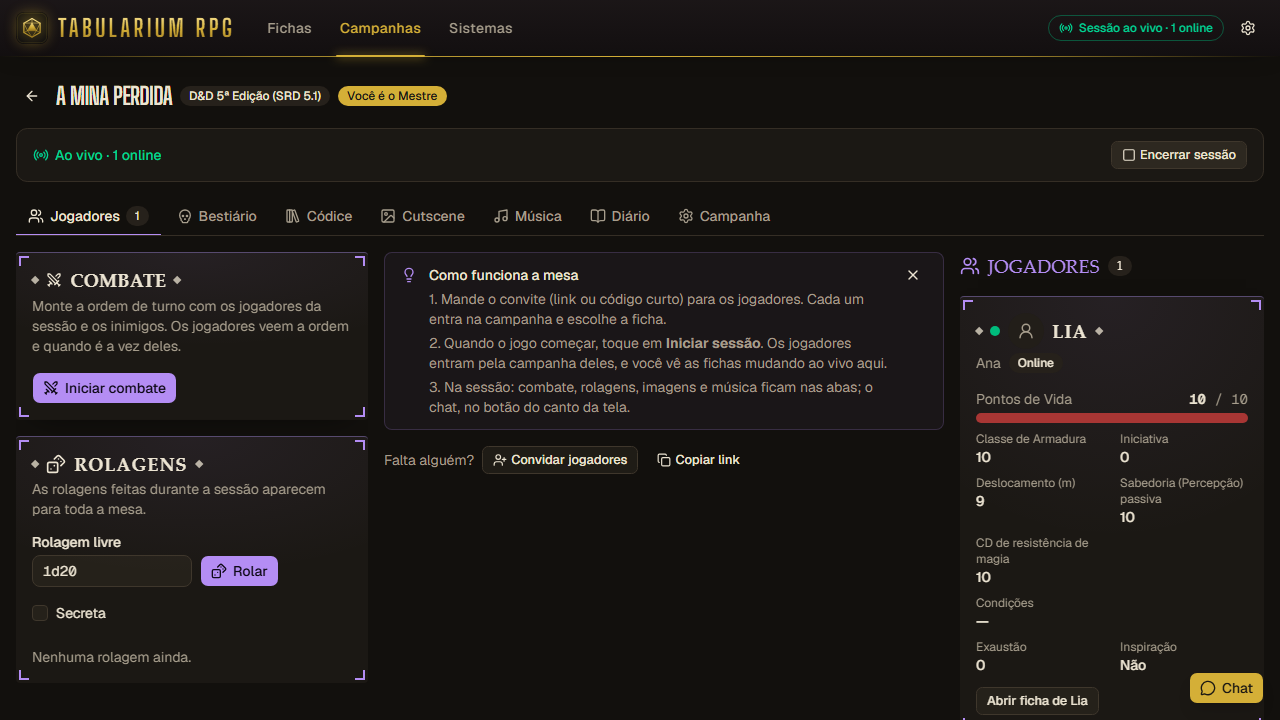
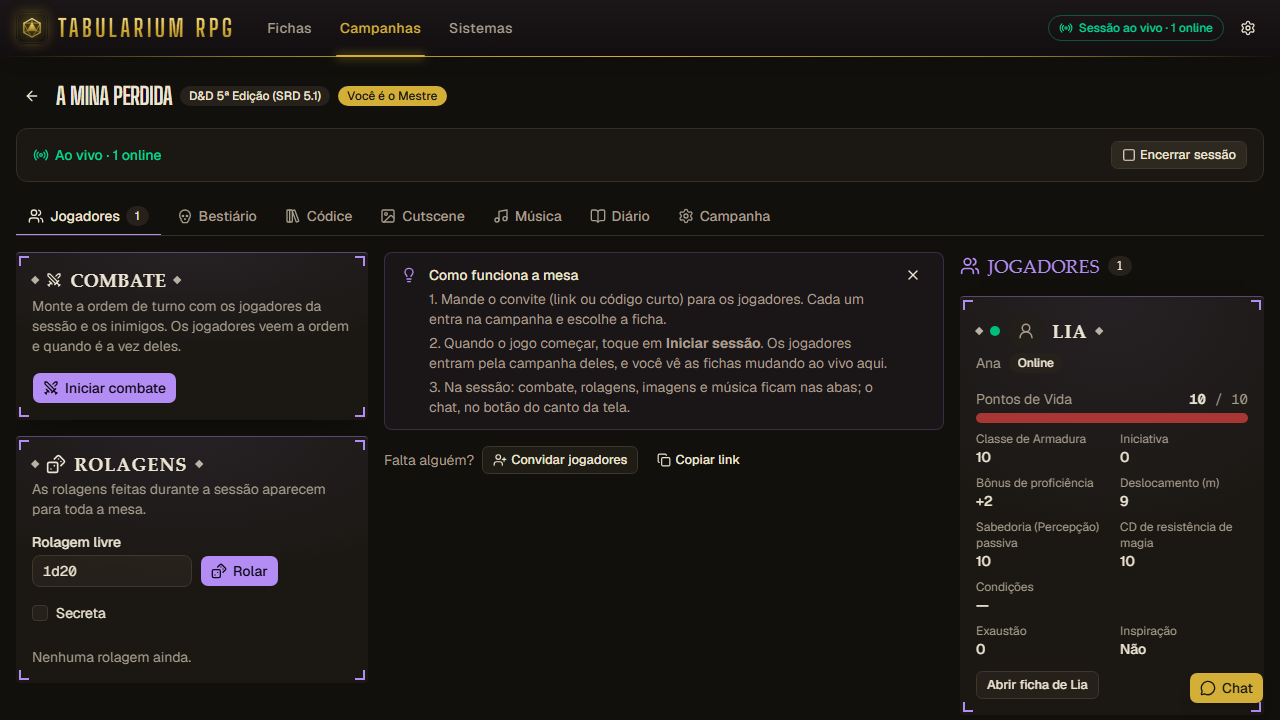
fix: lateral do D&D só com os atributos; bônus de proficiência no painel
- D&D 5e 1.13.0: só Atributos sempre à vista; testes de resistência voltam à aba
  Principal e o bônus de proficiência passa ao painel, junto de CA e iniciativa.
- A meia página sem par também se estica entre as seções fixas acima das abas.
- Marcadores do painel (Exaustão) ocupam a linha toda: as bolinhas numa fileira.

diff --git a/apps/web/src/components/sheet/SheetLayout.tsx b/apps/web/src/components/sheet/SheetLayout.tsx
@@ -444,24 +444,27 @@ export function SheetLayout({
     );
     pendingTab = undefined;
   }
-  // A meia página que perdeu o par (ele foi para o painel) ocupa a largura toda: numa
-  // sequência ímpar de meias páginas da mesma aba, a última se estica.
+  // A meia página que perdeu o par (ele foi para o painel, ou ficou nas abas) ocupa a largura
+  // toda: numa sequência ímpar de meias páginas da mesma aba, a última se estica. Vale para as
+  // abas e para as seções fixas desenhadas acima delas.
   if (sideNodes.length > 0) {
-    let run: number[] = [];
-    const closeRun = () => {
-      const last = run.at(-1);
-      if (run.length % 2 === 1 && last !== undefined) {
-        const { width: _width, ...rest } = full[last] as SectionNode;
-        full[last] = rest;
-      }
-      run = [];
-    };
-    full.forEach((node, index) => {
-      if (node.kind === 'section' && node.tab) closeRun();
-      if (node.kind === 'section' && node.width === 'metade') run.push(index);
-      else closeRun();
-    });
-    closeRun();
+    for (const nodes of [full, sideNodes] as LayoutNode[][]) {
+      let run: number[] = [];
+      const closeRun = () => {
+        const last = run.at(-1);
+        if (run.length % 2 === 1 && last !== undefined) {
+          const { width: _width, ...rest } = nodes[last] as SectionNode;
+          nodes[last] = rest;
+        }
+        run = [];
+      };
+      nodes.forEach((node, index) => {
+        if (node.kind === 'section' && node.tab) closeRun();
+        if (node.kind === 'section' && node.width === 'metade') run.push(index);
+        else closeRun();
+      });
+      closeRun();
+    }
   }
   // Campos que o template não posicionou no layout continuam acessíveis.
   const shown = new Set(layoutFieldIds(wholeLayout));

diff --git a/apps/web/src/components/sheet/SheetVitals.tsx b/apps/web/src/components/sheet/SheetVitals.tsx
@@ -339,10 +339,12 @@ function ResourceVital({
 function Tile({
   label,
   emblem,
+  wide = false,
   children,
 }: {
   label: string;
   emblem?: 'escudo' | undefined;
+  wide?: boolean;
   children: ReactNode;
 }) {
   if (emblem === 'escudo') {
@@ -358,7 +360,12 @@ function Tile({
     );
   }
   return (
-    <div className="flex min-w-16 shrink-0 flex-col items-center gap-0.5 rounded-md border px-2.5 py-1">
+    <div
+      className={cn(
+        'flex min-w-16 shrink-0 flex-col items-center gap-0.5 rounded-md border px-2.5 py-1',
+        wide && 'xl:col-span-2',
+      )}
+    >
       <span
         className="text-muted-foreground line-clamp-2 max-w-24 text-center text-[11px] leading-tight xl:max-w-none"
         title={label}
@@ -557,7 +564,14 @@ export function SheetVitals({
             não pode tomar a tela. */}
           <div className="-mx-1 flex max-w-full gap-2 overflow-x-auto px-1 pb-1 sm:flex-wrap sm:overflow-visible sm:pb-0 xl:mx-0 xl:grid xl:grid-cols-2 xl:px-0 xl:[&>*]:min-w-0">
             {tiles.map((field) => (
-              <Tile key={field.id} label={field.label} emblem={field.emblem}>
+              <Tile
+                key={field.id}
+                label={field.label}
+                emblem={field.emblem}
+                // Marcadores (Exaustão, testes contra a morte) ocupam a linha toda da coluna:
+                // as bolinhas cabem numa fileira só.
+                wide={'display' in field && field.display === 'marcadores'}
+              >
                 {tile(field)}
               </Tile>
             ))}

diff --git a/apps/web/src/App.sheet-layout.test.tsx b/apps/web/src/App.sheet-layout.test.tsx
@@ -165,7 +165,10 @@ describe('seções sempre à vista', () => {
     expect(tabPanel()).not.toContainElement(attributes());
     await user.click(screen.getByRole('tab', { name: 'Combate' }));
     expect(attributes()).toBeInTheDocument();
-    expect(screen.getByRole('heading', { name: 'Testes de resistência' })).toBeInTheDocument();
+    // Só os atributos: os testes de resistência ficam na aba Principal.
+    expect(
+      screen.queryByRole('heading', { name: 'Testes de resistência' }),
+    ).not.toBeInTheDocument();
     // A aba que começava nos atributos passa para a seção seguinte (Perícias).
     await user.click(screen.getByRole('tab', { name: 'Principal' }));
     expect(within(tabPanel()).getByRole('heading', { name: 'Perícias' })).toBeInTheDocument();

diff --git a/CHANGELOG.md b/CHANGELOG.md
@@ -5,8 +5,8 @@ As mudanças de cada versão, para quem usa o Tabularium RPG. Detalhes técnicos
 ## Próxima versão
 
 - **Visual novo: carvão e dourado.** O app troca o azul-tinta e o cobalto por superfícies em carvão quente (sem o tom azulado) e um único destaque em dourado envelhecido, no que é interativo e importante. O cabeçalho ganha o nome em ouro, um filete dourado e a aba atual marcada embaixo, e o ícone vira um d20 dourado.
-- **Estilo de cada ficha:** além da cor e da fonte, o sistema escolhe a moldura dos blocos: **medieval** (cantos marcados e o título entre losangos, para fantasia) ou **sombrio** (blocos quase pretos, uma luz baixa na cor do sistema e as bordas da tela escurecidas, para terror e investigação). O D&D 5e (1.12.0) fica medieval; no catálogo, Tormenta20, Dualidade e Pathfinder 2e ficam medievais, e Ordem Paranormal (agora em vermelho) e Chamado de Cthulhu, sombrios. No editor, em Informações → **Estilo da ficha**.
-- **Atributos sempre à vista:** o sistema marca as seções essenciais (atributos, testes de resistência) como **Sempre à vista**, no editor de seções. Em telas largas, elas ficam na coluna fixa da esquerda, junto de PV e defesa, e não somem ao trocar de aba; em telas menores, ficam acima das abas. A meia página que perde o par ocupa a largura toda.
+- **Estilo de cada ficha:** além da cor e da fonte, o sistema escolhe a moldura dos blocos: **medieval** (cantos marcados e o título entre losangos, para fantasia) ou **sombrio** (blocos quase pretos, uma luz baixa na cor do sistema e as bordas da tela escurecidas, para terror e investigação). O D&D 5e (1.13.0) fica medieval; no catálogo, Tormenta20, Dualidade e Pathfinder 2e ficam medievais, e Ordem Paranormal (agora em vermelho) e Chamado de Cthulhu, sombrios. No editor, em Informações → **Estilo da ficha**.
+- **Atributos sempre à vista:** o sistema marca as seções essenciais (como os atributos) como **Sempre à vista**, no editor de seções. Em telas largas, elas ficam na coluna fixa da esquerda, junto de PV e defesa, e não somem ao trocar de aba; em telas menores, ficam acima das abas. A meia página que perde o par ocupa a largura toda. No D&D 5e (1.13.0), só os atributos vão para a coluna, e o bônus de proficiência passa ao painel, junto de CA e iniciativa; nos marcadores do painel (como a Exaustão), as bolinhas cabem numa fileira só.
 - **Poderes, rituais e magias em cartões:** uma lista pode mostrar cada item como um cartão, com a caixa de texto longo sempre aberta para a descrição ("Mostrar cada item como um cartão", no editor do campo). Usado nas habilidades e magias do D&D, nos poderes e rituais da Ordem Paranormal, nos poderes e magias de Tormenta20, nas cartas de domínio da Dualidade e nos talentos e magias do Pathfinder 2e.
 - **Atributos em círculo mais limpos:** o valor de cada atributo (o 16 do +3) fica num selo na borda do círculo, como na ficha impressa, sem invadir o vizinho. A lista de ataques cabe no bloco sem estourar a largura, e o rótulo da CA no escudo não encosta mais na borda.
 - **Cada sistema com a sua cara.** Dentro da ficha e da campanha, o sistema usa o tema dele: a cor de destaque, a fonte dos títulos (condensada, serifada de livro antigo ou de máquina de escrever), a cor de cada barra de recurso, os atributos em círculo e a Defesa ou CA num escudo. O D&D 5e (1.11.0) fica violeta e serifado, com a CA no escudo e os atributos em círculo ao lado dos testes de resistência. Quem cria sistemas acha tudo isso no editor.
